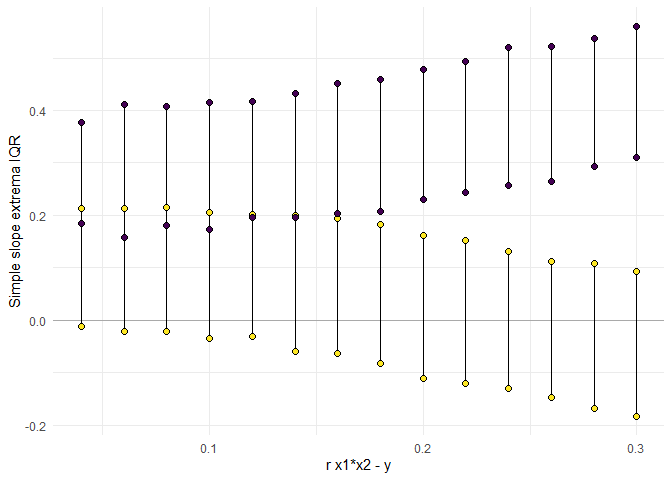
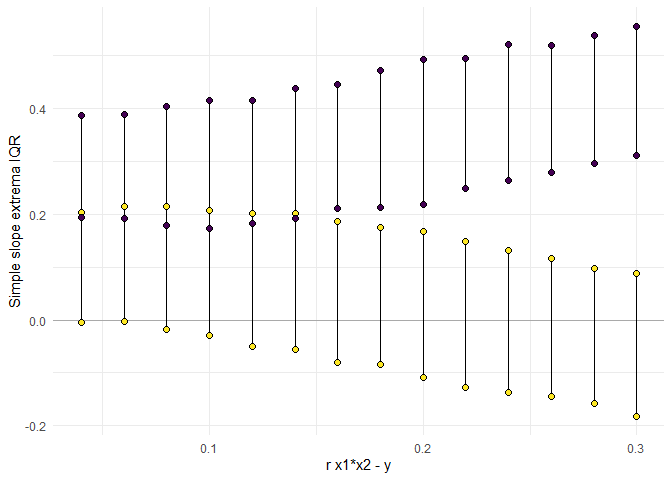
fix r2

diff --git a/README.md b/README.md
@@ -61,23 +61,12 @@ test_power<-power_interaction(
 #> [1] "Checking for errors in inputs..."
 #> [1] "Performing 1000 simulations"
 toc()
-#> 17.71 sec elapsed
+#> 15.72 sec elapsed
 test_power
-#> # A tibble: 1,000 x 4
-#> # Groups:   x1x2_r2, x1x2_95confint_25 [1,000]
-#>     x1x2_r2 x1x2_95confint_25 x1x2_95confint_975   pwr
-#>       <dbl>             <dbl>              <dbl> <dbl>
-#>  1 -0.00278           -0.114              0.0991     0
-#>  2 -0.00277           -0.101              0.114      0
-#>  3 -0.00271           -0.106              0.118      0
-#>  4 -0.00268           -0.102              0.111      0
-#>  5 -0.00246           -0.0868             0.121      0
-#>  6 -0.00235           -0.0843             0.124      0
-#>  7 -0.00215           -0.117              0.0715     0
-#>  8 -0.00204           -0.0740             0.127      0
-#>  9 -0.00196           -0.132              0.0779     0
-#> 10 -0.00175           -0.0765             0.146      0
-#> # ... with 990 more rows
+#> # A tibble: 1 x 1
+#>     pwr
+#>   <dbl>
+#> 1 0.797
 ```
 
 We see that we have \~80% power to detect the effect of interest.
@@ -155,7 +144,7 @@ test_power<-power_interaction(
 #> [1] "Checking for errors in inputs..."
 #> [1] "Performing 60000 simulations"
 toc()
-#> 251.05 sec elapsed
+#> 275.66 sec elapsed
 ```
 
 The results of this analysis can be hard to interpret just by looking at
@@ -173,11 +162,11 @@ The function `power_estimate()` can be used to estimate where the
 power_curve for each interaction effect size crosses our 90% line:
 
 ``` r
-power_estimate(test_power,power_target = .9,x = "N")
+power_estimate(test_power,power_target = .9,x="N")
 #>   r.x1x2.y estimate
-#> 1     0.18 306.2977
-#> 2     0.20 244.7260
-#> 3     0.22 201.1376
+#> 1     0.18 309.8195
+#> 2     0.20 243.9879
+#> 3     0.22 205.9261
 ```
 
 We can see that depending on the specific effect size we hope to detect,
@@ -212,7 +201,7 @@ test_power<-power_interaction(
 #> [1] "Checking for errors in inputs..."
 #> [1] "Performing 14000 simulations"
 toc()
-#> 88.11 sec elapsed
+#> 89.81 sec elapsed
 ```
 
 As with the previous example, the results of this analysis can be hard
@@ -229,7 +218,7 @@ power_curve for each interaction effect size crosses our 90% line:
 
 ``` r
 power_estimate(test_power,power_target = .9,x = "r.x1x2.y")
-#> [1] 0.1472064
+#> [1] 0.1475744
 ```
 
 We can use the function `plot_simple_slope()` to visualize the
@@ -274,7 +263,7 @@ test_power<-power_interaction(
 #> [1] "Checking for errors in inputs..."
 #> [1] "Performing 28000 simulations"
 toc()
-#> 162.2 sec elapsed
+#> 166.42 sec elapsed
 plot_power_curve(test_power,power_target = .9)
 ```
 
@@ -327,11 +316,9 @@ test_power<-power_interaction(
 #> [1] "Adjusting correlations for variable transformations..."
 #> [1] "Performing 9000 simulations"
 toc()
-#> 76.56 sec elapsed
+#> 77.07 sec elapsed
 plot_power_curve(test_power,power_target = .9,x = "skew.x1")
 ```
-
-<img src="man/figures/README-example11-1.png" width="100%" />
 
 We can see that in this example, our power decreases as the x1 skew
 increases.
